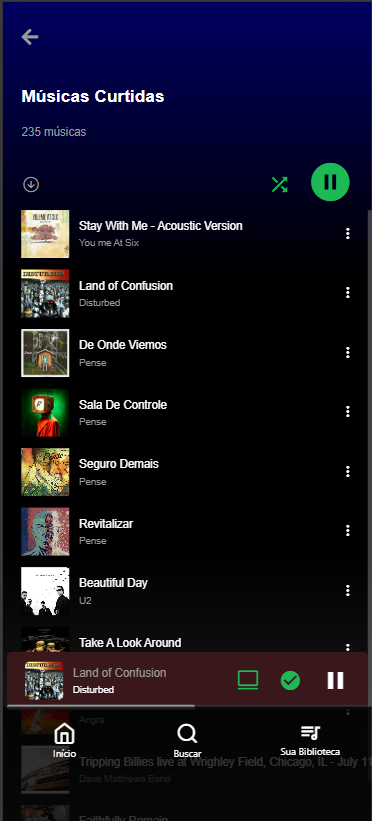
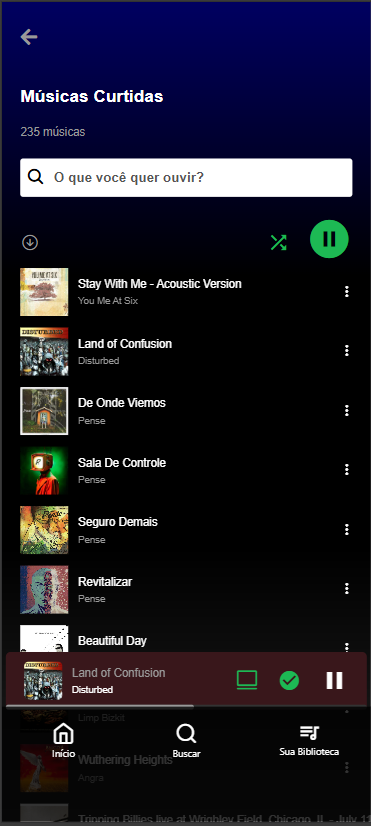
Insert TextInput on Playlist

diff --git a/habilidades-equipamentos/src/screens/spotifyPlaylist/index.tsx b/habilidades-equipamentos/src/screens/spotifyPlaylist/index.tsx
@@ -1,5 +1,5 @@
 import React, { useState } from "react";
-import { View, Text, FlatList, Image } from "react-native";
+import { View, Text, FlatList, Image, TextInput } from "react-native";
 import { LinearGradient } from "expo-linear-gradient";
 import Icon from "react-native-vector-icons/MaterialIcons";
 import Icon2 from "react-native-vector-icons/FontAwesome5";
@@ -26,7 +26,7 @@ export const Playlist = () => {
     {
       id: "1",
       title: "Stay With Me - Acoustic Version",
-      artist: "You me At Six",
+      artist: "You Me At Six",
       albumCover: you6,
     },
     {
@@ -104,6 +104,10 @@ export const Playlist = () => {
       </View>
       <View style={styles.containerTitle}>
         <Text style={styles.songsQty}>235 músicas</Text>
+      </View>
+      <View style={styles.inputContainer}>
+        <Icon3 name="search" style={styles.searchIcon} />
+        <TextInput style={styles.input} placeholder="O que você quer ouvir?" />
       </View>
       <View style={styles.containerHeaderMenu}>
         <View>

diff --git a/habilidades-equipamentos/src/screens/spotifyPlaylist/styles.ts b/habilidades-equipamentos/src/screens/spotifyPlaylist/styles.ts
@@ -34,6 +34,35 @@ export const styles = StyleSheet.create({
     textAlign: "center",
     fontFamily: "Roboto, sans-serif",
   },
+  inputContainer: {
+    flexDirection: "column",
+    justifyContent: "center",
+    alignItems: "center",
+    width: "100%",
+  },
+  searchIcon: {
+    position: "absolute",
+    zIndex: 9999,
+    alignSelf: "flex-start",
+    marginLeft: 25,
+    top: 28,
+    fontSize: 20,
+    color: "black",
+    fontWeight: "bold",
+  },
+  input: {
+    height: 40,
+    width: "90%",
+    backgroundColor: "white",
+    borderRadius: 3,
+    padding: 10,
+    paddingLeft: 35,
+    marginTop: 20,
+    fontSize: 14,
+    fontWeight: "bold",
+    color: "#555",
+    fontFamily: "Roboto, sans-serif",
+  },
   containerHeaderMenu: {
     flexDirection: "row",
     justifyContent: "space-between",

diff --git a/habilidades-equipamentos/App.tsx b/habilidades-equipamentos/App.tsx
@@ -1,6 +1,5 @@
-import React, { useState } from "react";
-// import { Skills } from "./src/screens/skills/index";
-// import { Player } from "./src/screens/spotifyPlayer/index";
+import React from "react";
+import { Player } from "./src/screens/spotifyPlayer/index";
 import { Playlist } from "./src/screens/spotifyPlaylist/index";
 
 export default function App() {

diff --git a/habilidades-equipamentos/src/screens/spotifyPlayer/index.tsx b/habilidades-equipamentos/src/screens/spotifyPlayer/index.tsx
@@ -2,7 +2,6 @@ import {
   View,
   Text,
   Image,
-  Button,
   TouchableOpacity,
   ImageBackground,
 } from "react-native";
